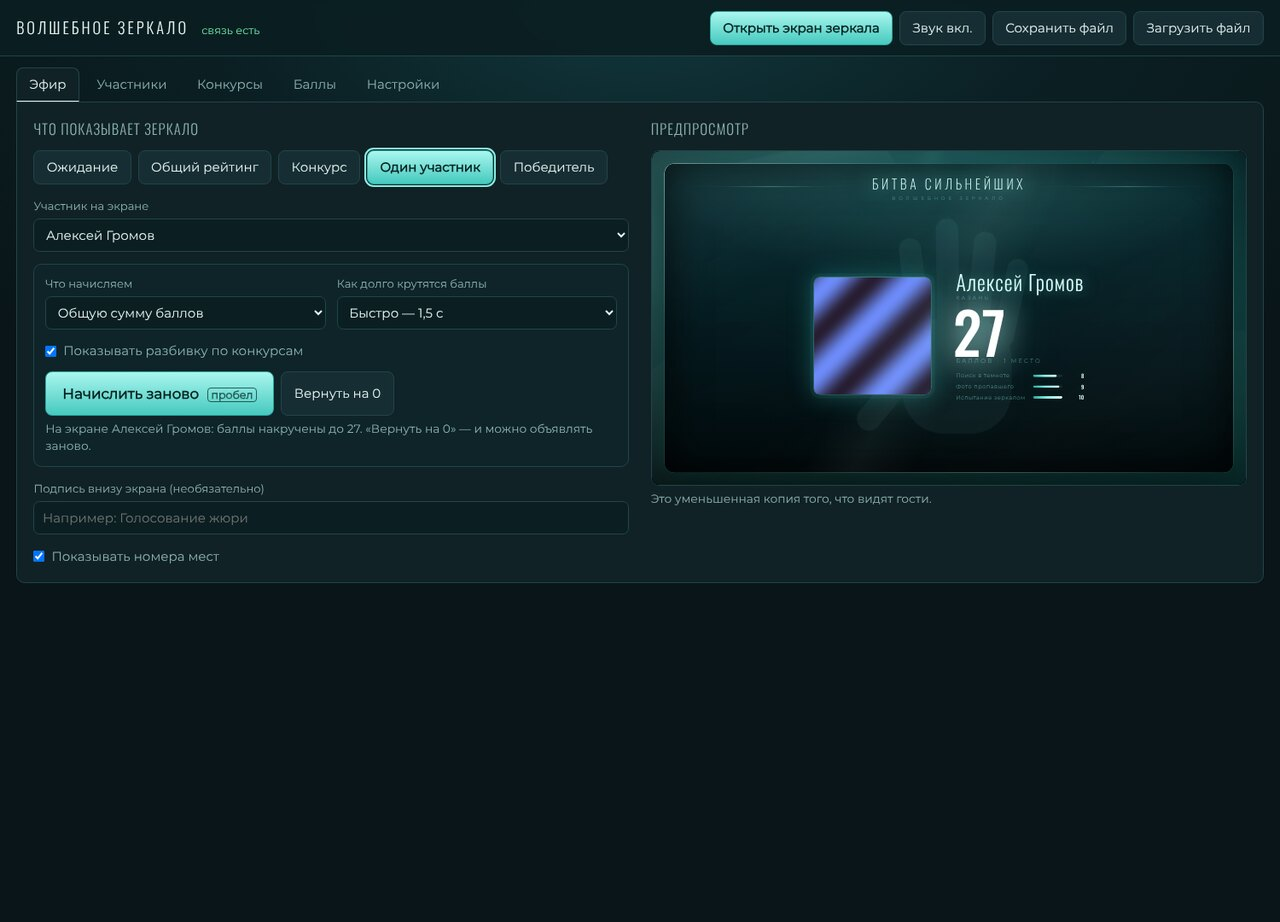
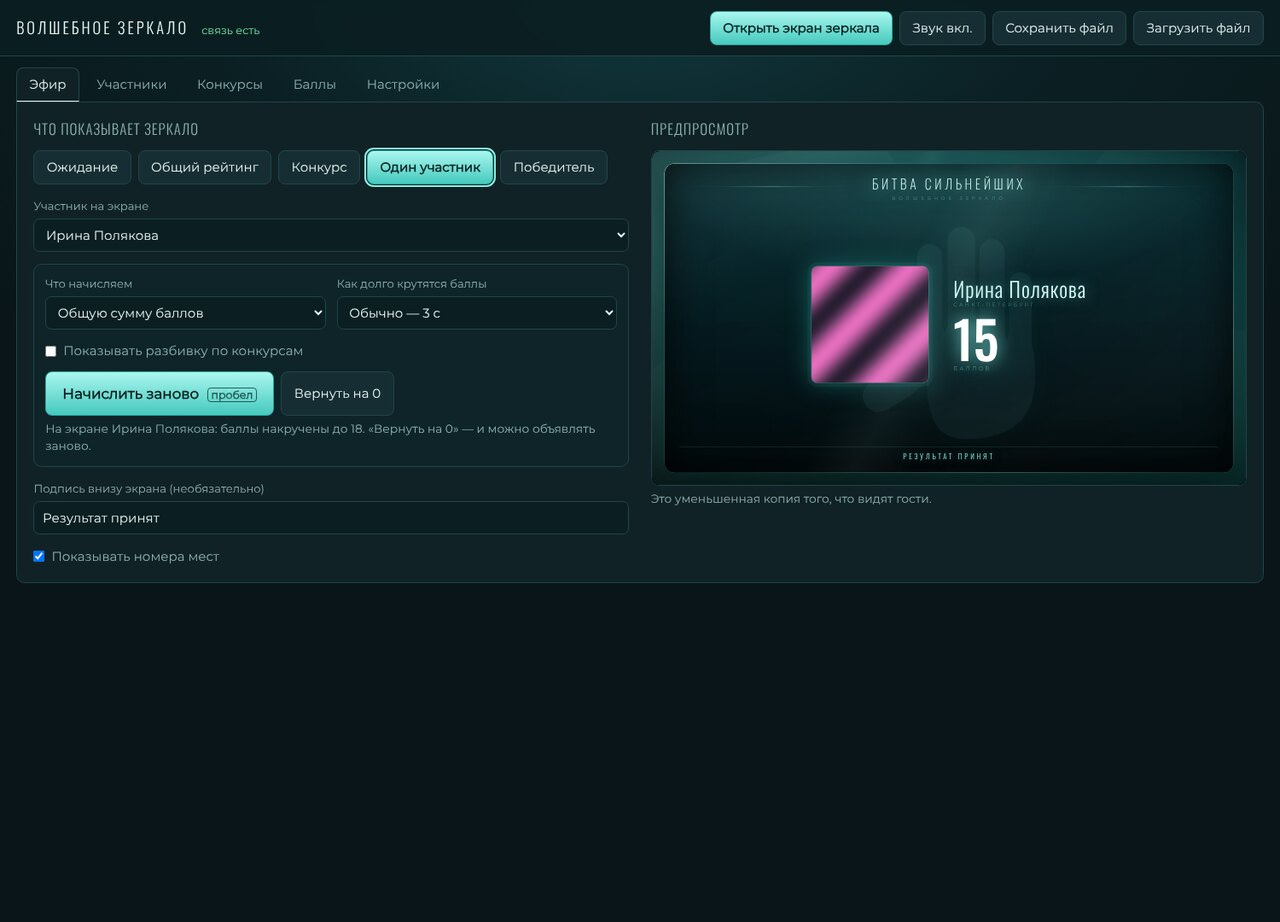
Знак ладони перерисован нормальной формой
Прежняя ладонь была склеена из прямоугольников, и большой палец торчал
отдельной палкой. Теперь это единый контур: четыре пальца с округлыми
кончиками, межпальцевые впадины и большой палец, плавно выходящий из ребра
ладони — по форме с афиши шоу.

Claude-Session: https://claude.ai/code/session_01LSb9UDFARHCAVideYfxYHE

diff --git a/public/display.html b/public/display.html
@@ -22,15 +22,15 @@
 
     <main class="mirror">
       <div class="mirror-glass">
-        <svg class="hand" viewBox="0 0 120 200" fill="none" aria-hidden="true">
-          <g fill="currentColor">
-            <rect x="31" y="96" width="68" height="72" rx="26"/>
-            <rect x="36" y="46" width="14" height="66" rx="7" transform="rotate(-7 43 112)"/>
-            <rect x="53" y="34" width="14" height="78" rx="7" transform="rotate(-1 60 112)"/>
-            <rect x="70" y="42" width="14" height="70" rx="7" transform="rotate(5 77 112)"/>
-            <rect x="86" y="58" width="13" height="56" rx="6.5" transform="rotate(12 92 114)"/>
-            <rect x="30" y="118" width="15" height="58" rx="7.5" transform="rotate(40 37.5 126)"/>
-          </g>
+        <svg class="hand" viewBox="0 0 170 232" fill="none" aria-hidden="true">
+          <!-- Знак шоу: раскрытая ладонь -->
+          <path fill="currentColor" d="M 57 56 A 11 11 0 0 1 79 56 L 79 116 Q 81.5 129 84 116 L 84 42
+            A 12 12 0 0 1 108 42 L 108 118 Q 110 131 112 118 L 112 52
+            A 11 11 0 0 1 134 52 L 134 124 Q 136 136 138 124 L 138 80
+            A 10 10 0 0 1 158 80 L 158 132 C 162 150 162 170 158 184
+            C 151 207 129 217 100 217 C 80 217 66 207 65.3 165.2
+            C 57 175 44 184 30.3 191.2 A 14 14 0 0 1 13.7 168.8
+            C 26 158 38 150 48.7 142.8 C 51 134 54 125 57 116 Z"/>
         </svg>
 
         <header class="crest">
